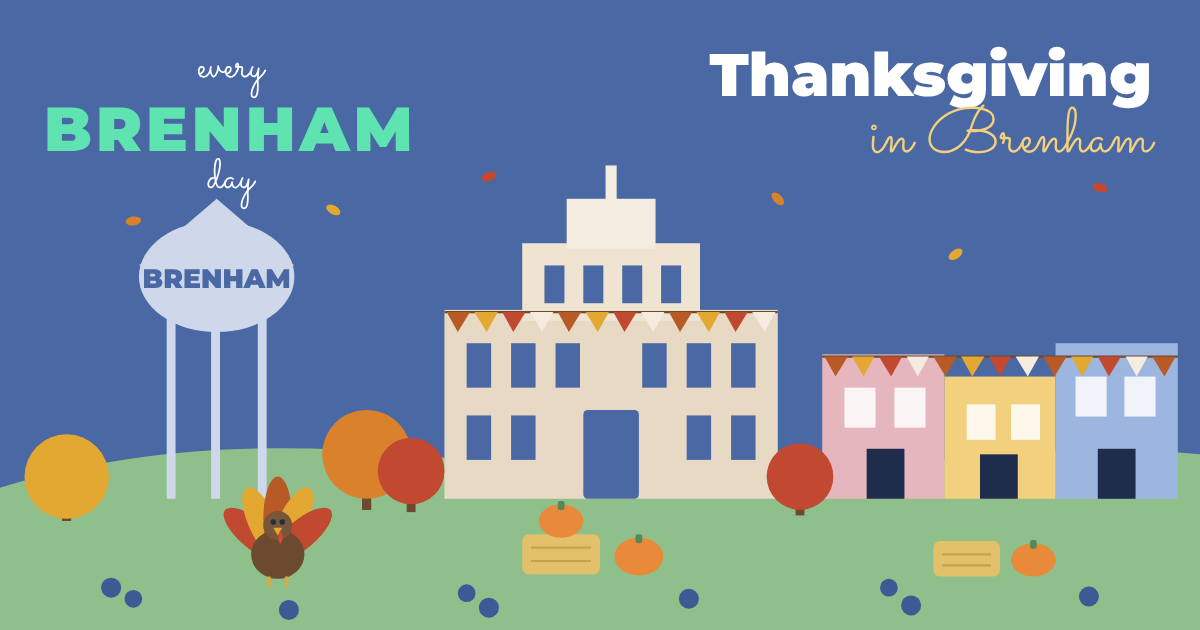
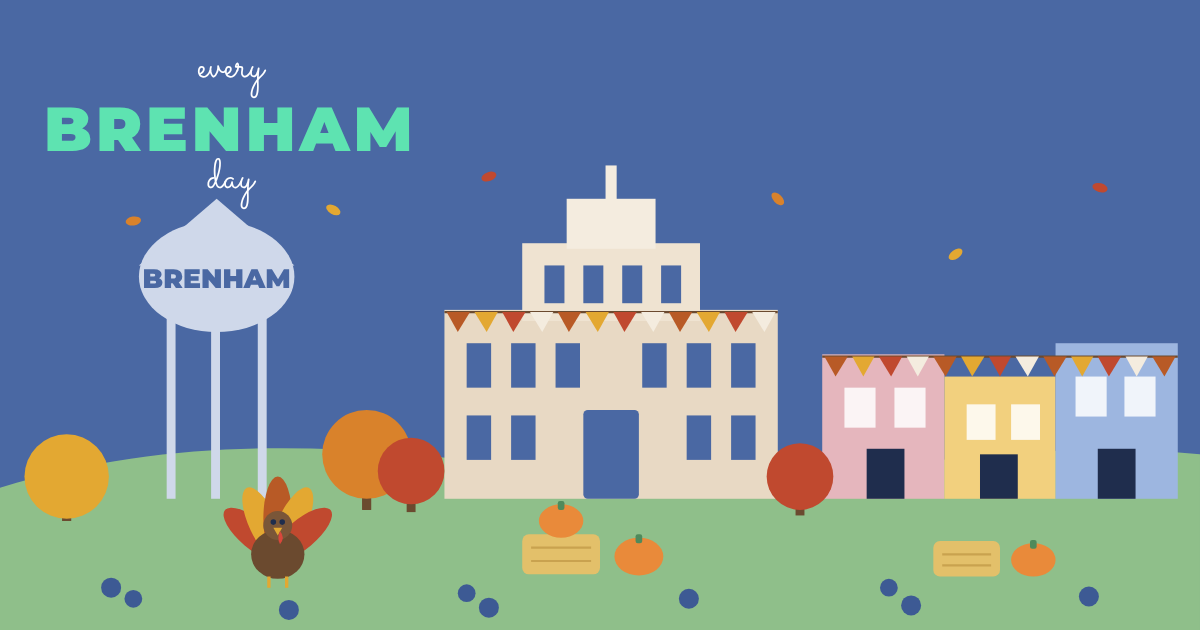
Thanksgiving preview image: drop title text
Claude-Session: https://claude.ai/code/session_01K2nnV3pavBeXJbpRNuxuLg

Changed region(s): [[0.5858, 0.0603, 0.9558, 0.2413]]

diff --git a/source/build.py b/source/build.py
@@ -81,7 +81,7 @@ def page(title, description, prefix, body, issues, current=None, preview=False, 
 <meta property="og:description" content="{html.escape(description)}">
 <meta property="og:type" content="website">
 <meta property="og:site_name" content="Brenham Every Day">
-<meta property="og:image" content="https://brenhameveryday.com/img/{'share-thanksgiving.png?v=1' if thanks else 'share.png'}">
+<meta property="og:image" content="https://brenhameveryday.com/img/{'share-thanksgiving.png?v=2' if thanks else 'share.png'}">
 <meta property="og:image:width" content="1200">
 <meta property="og:image:height" content="630">
 <meta property="og:image:alt" content="Brenham Every Day: the Brenham water tower, courthouse and Main Street">
